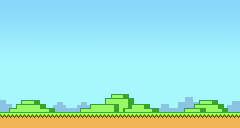
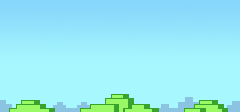
a

Changed region(s): [[0.0, 0.7232, 1.0, 1.0]]

diff --git a/main.h b/main.h
@@ -25,7 +25,7 @@
 #define START_Y 0
 #define CELL_SIZE 8
 #define MAX_X 30
-#define MAX_Y 16
+#define MAX_Y 24
 
 #define CLOUD_COUNT 3
 #define PLATFORMER_COUNT 6
@@ -34,10 +34,11 @@
 
 #define INTERVAL 15
 
+#define PI 3.141592
 #define RAD 57.295780
 
 int POS_X, POS_Y;
-float BOUNDARY_LEFT = 10.0f, BOUNDARY_RIGHT = 230.0f, BOUNDARY_TOP = 120.0f;
+float BOUNDARY_LEFT = 10.0f, BOUNDARY_RIGHT = 230.0f;
 
 int Game_State;
 
@@ -45,10 +46,10 @@ enum GAME_STATE {
     GAME_PLAY
 };
 
-Image Img_Background;
-Rect Rct_Background = {0, WIDTH / SCALE, 0, HEIGHT / SCALE};
+Image Img_Background, Img_Ground;
+Rect Rct_Background = {0, 240, 16, 128}, Rct_Ground={0,240,0,16};
 
-float Gravity = -0.6f;
+float Gravity = -0.4f;
 
 int Map[MAX_Y][MAX_X];
 
@@ -177,6 +178,8 @@ c_Platformer Platformers[PLATFORMER_COUNT];
 class c_Frog {
 public:
     static Image Img_Save[2][2][2]; // Player color, Direction, Animation
+    static float Map_Offset[2];
+    static float Map_Base_Angle[2];
 
     float x, y, vx, vy;
     Rect Rct;
@@ -219,23 +222,17 @@ public:
 
     void Prepare_Start() {
         Prepare_Stt = 1;
-        Angle = 20.0f;
-        Angle_Drt = 1;
+        Angle_Drt = Map_Offset[Drt];
+    	Angle=Map_Base_Angle[Drt];
     }
 
     void Prepare_End() {
         Prepare_Stt = 2;
     }
 
-    void Jump(float _vx, float _vy) {
+    void Jump() {
         if (!Is_Jumping) {
-            if (Drt == 0)
-                _vx = -4.0f;
-            else
-                _vx = 4.0f;
             Is_Jumping = true;
-            vx = _vx;
-            vy = _vy;
             Anim = 1;
             Update_Image();
         }
@@ -244,27 +241,49 @@ public:
     void Update() {
         if (!Is_Jumping) {
             if (Prepare_Stt > 0) {
-
-                float Angle2 = Angle;
-                vx = cos(Angle2) * 7;
-                vy = sin(Angle2) * 7;
-                for (int i = 0; i < 17; i++) {
-                    x += vx;
-                    y += vy;
-                    if (i % 3 == 1) {
-                        Angle2 = atan2(vy, vx) * RAD;
-                        Lines.push_back(c_Line(0, x, y, Angle2));
-                        Lines.push_back(c_Line(1, 240 - x, y, 180 - Angle2));
-                    }
-                    vy += Gravity;
-                }
+            	if (Prepare_Stt==2){
+            		Prepare_Stt=0;
+            		Jump();
+				}else{
+					Angle+=Angle_Drt;
+					bool Check=false;
+					if (Angle_Drt==1){
+						if (Drt==0){
+							if (Angle>=160.0f)
+								Check=true;
+						}else if (Angle>=70.0f)
+							Check=true;
+					}else{
+						if (Drt==0){
+							if (Angle<=110.0f)
+								Check=true;
+						}else if (Angle<=20.0f)
+							Check=true;
+					}
+					if (Check) Angle_Drt=-Angle_Drt;
+					
+	                float Angle2 = Angle/RAD;
+	                float x2=x,y2=y,vx2,vy2;
+	                vx2 = cos(Angle2) * 3 + (Drt==0?(PI-Angle2)*-2:Angle2*2);
+	                vy2 = sin(Angle2) * 7;
+	                vx=vx2;
+	                vy=vy2;
+	                for (int i = 0; i < 17; i++) {
+	                    x2 += vx2;
+	                    y2 += vy2;
+	                    if (i % 3 == 1) {
+	                        Angle2 = atan2(vy2, vx2) * RAD;
+	                        Lines.push_back(c_Line(Player, x2, y2,Angle2));
+	                    }
+	                    vy2 += Gravity;
+	                }
+	            }
             }
         } else {
-            vy += Gravity;
             x += vx;
             y += vy;
-            if (y >= BOUNDARY_TOP)
-                vy = 0.0f;
+            printf("%f\n",vy);
+            vy += Gravity;
             if (vy <= 0.0f) {
                 int col1 = (x - START_X - 3.0f) / CELL_SIZE;
                 int col2 = (x - START_X + 3.0f) / CELL_SIZE;
@@ -315,6 +334,8 @@ public:
 };
 
 Image c_Frog::Img_Save[2][2][2];
+float c_Frog::Map_Offset[2]={-1.0f,1.0f};
+float c_Frog::Map_Base_Angle[2]={160.0f,20.0f};
 
 c_Frog Frogs[2];
 
@@ -328,7 +349,8 @@ public:
 void Game_Display_Play();
 void Game_Process_Play();
 void Game_Keyboard_None(GLubyte &key);
-void Game_Keyboard_Play(GLubyte &key);
+void Game_Keyboard_Down_Play(GLubyte &key);
+void Game_Keyboard_Up_Play(GLubyte &key);
 void Game_Special_None(int &key);
 void Game_Special_Play(int &key);
 
@@ -336,7 +358,8 @@ void Game_Special_Play(int &key);
 
 void (*Game_Display_Func[])() = {Game_Display_Play};
 void (*Game_Process_Func[])() = {Game_Process_Play};
-void (*Game_Keyboard_Func[])(GLubyte &key) = {Game_Keyboard_Play};
+void (*Game_Keyboard_Down_Func[])(GLubyte &key) = {Game_Keyboard_Down_Play};
+void (*Game_Keyboard_Up_Func[])(GLubyte &key) = {Game_Keyboard_Up_Play};
 void (*Game_Special_Func[])(int &key) = {Game_Special_Play};
 
 // including all referenced .cpp files, you don't need to compile all of them

diff --git a/init.cpp b/init.cpp
@@ -21,28 +21,11 @@ void Reload_Game() {
 
     Frogs[0].Init(0);
     Frogs[1].Init(1);
-
-//    float Angle=70.0f*3.141592653/180;
-//    float vx=cos(Angle)*7.0f;
-//    float vy=sin(Angle)*7.0f;
-//    float x=10.0f,y=10.0f;
-//    float oldx=x,oldy=y;
-//    Gravity=-0.5f;
-//    for (int i=0;i<20;i++){
-//    	x+=vx;
-//    	y+=vy;
-//    	if ((x-oldx)*(x-oldx)+(y-oldy)*(y-oldy)>=90.0f){
-//    		oldx=x;
-//    		oldy=y;
-//    		Angle=atan2(vy,vx)*180/3.141592653f;
-//    		Lines.push_back(c_Line(0,x,y,Angle));
-//		}
-//    	vy+=Gravity;
-//	}
 }
 
 void Init_Game() {
     Load_Texture_Swap(&Img_Background, "Images/Background.png");
+    Load_Texture_Swap(&Img_Ground, "Images/Ground.png");
     c_Line::Load_Image();
     c_Cloud::Load_Image();
     c_Platformer::Load_Image();

diff --git a/afunc.cpp b/afunc.cpp
@@ -13,6 +13,9 @@ void Game_Display_Play() {
 
     for (c_Line Line : Lines)
         Line.Draw();
+        
+    Map_Texture(&Img_Ground);
+    Draw_Rect(&Rct_Ground);
 
     for (int i = 0; i < PLATFORMER_COUNT; i++)
         Platformers[i].Draw();
@@ -37,10 +40,21 @@ void Game_Process_Play() {
 // Keyboard
 
 void Game_Keyboard_None(GLubyte &key) {
+	
 }
 
-void Game_Keyboard_Play(GLubyte &key) {
-    Frogs[0].Jump(4, 7);
+void Game_Keyboard_Down_Play(GLubyte &key) {
+    switch(key){
+    	case 32: Frogs[0].Prepare_Start(); break;
+    	case 13: Frogs[1].Prepare_Start(); break;
+	}
+}
+
+void Game_Keyboard_Up_Play(GLubyte &key) {
+    switch(key){
+    	case 32: Frogs[0].Prepare_End(); break;
+    	case 13: Frogs[1].Prepare_End(); break;
+	}
 }
 
 // Special

diff --git a/main.cpp b/main.cpp
@@ -11,8 +11,12 @@ void Resize(int x, int y) {
     glutReshapeWindow(WIDTH, HEIGHT);
 }
 
-void Keyboard(GLubyte key, int x, int y) {
-    Game_Keyboard_Func[Game_State](key);
+void Keyboard_Down(GLubyte key, int x, int y) {
+    Game_Keyboard_Down_Func[Game_State](key);
+}
+
+void Keyboard_Up(GLubyte key, int x, int y) {
+    Game_Keyboard_Up_Func[Game_State](key);
 }
 
 void Special(int key, int x, int y) {
@@ -35,7 +39,8 @@ int main(int argc, char **argv) {
     glutCreateWindow("Catch Flies");
     Init_GL();
     glutDisplayFunc(Display);
-    glutKeyboardFunc(Keyboard);
+    glutKeyboardFunc(Keyboard_Down);
+    glutKeyboardUpFunc(Keyboard_Up);
     glutSpecialFunc(Special);
     glutTimerFunc(0, Timer, 0);
     glutMainLoop();
